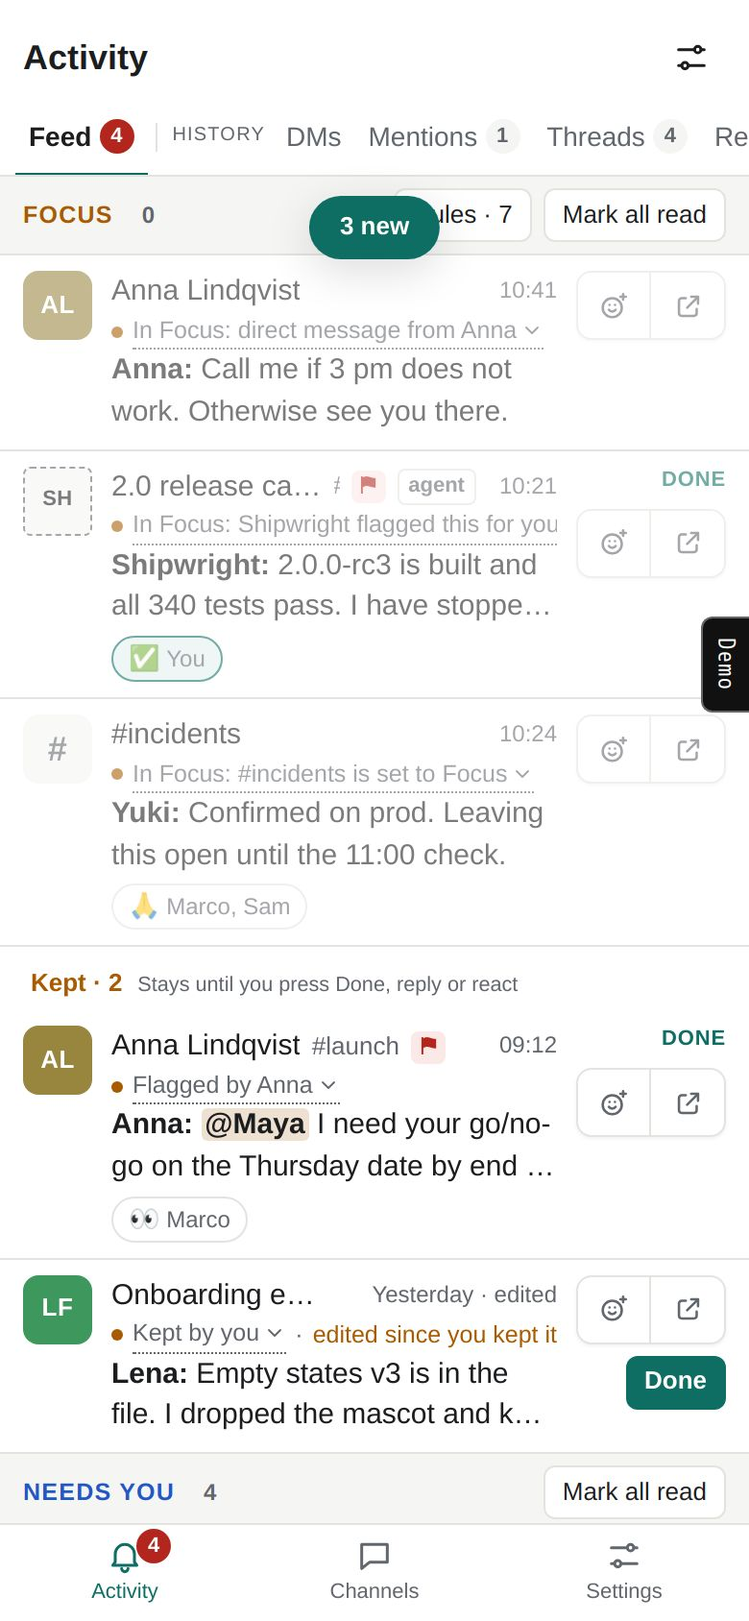
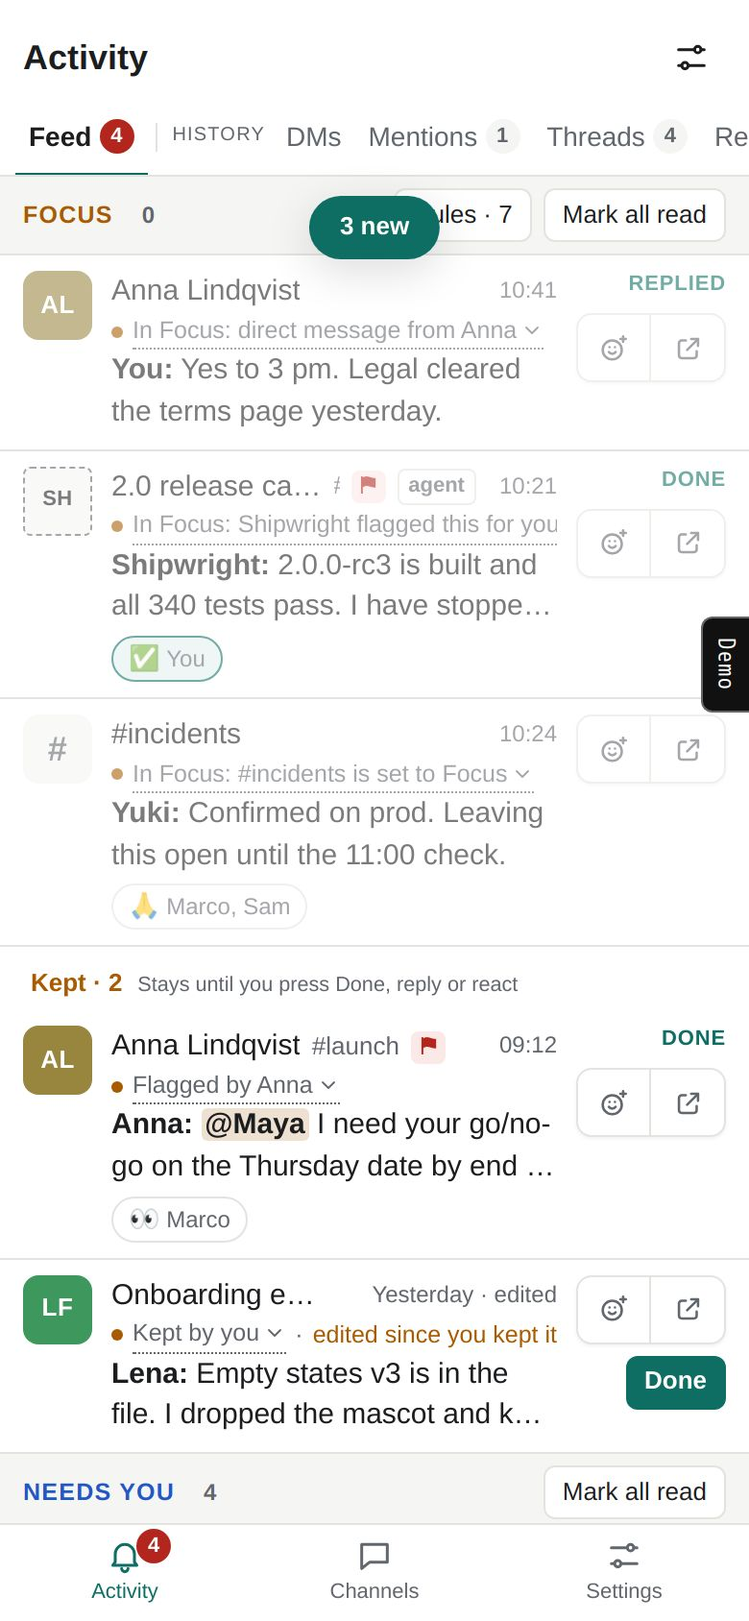
test: a row closes after a reply is sent from it; arrivals are marked once brought in (E-002, T-025)
Verified: run.sh passes 484 checks at 1280 and 390 px; the replied row and both arrival states were looked at rendered on desktop.

Changed region(s): [[0.1538, 0.2156, 0.7077, 0.2773], [0.8308, 0.154, 0.9538, 0.2156], [0.8, 0.1848, 0.8308, 0.2156]]

diff --git a/experiments/E-002-look-and-feel/own.html b/experiments/E-002-look-and-feel/own.html
@@ -303,6 +303,8 @@ button.rx:hover{border-color:var(--accent)}
   .picker{left:0 !important;right:0;top:auto !important;bottom:0;width:auto;max-height:62dvh;border-radius:16px 16px 0 0}.pk-grid button{height:42px;font-size:24px}}
 /* reactions on their own line, buttons on the next */
 .acts .quick{flex:0 0 100%;margin:0 0 2px}
+.row.fresh{background:color-mix(in srgb,var(--accent) 7%,transparent)}
+.row.fresh .row-time::after{content:" · just in";color:var(--accent);font-weight:600}
 
 /* The agent's own: a calm page. The reason leads every row, and a row's size says how much attention it asks for. */
 :root{--bg:#faf8f4;--panel:#fff;--panel2:#f1eee7;--line:#e4dfd4;--hover:#f3f0e9;--accent:#1f4f46;--accent-soft:#e1ece9;--serif:ui-serif,Georgia,"Times New Roman",serif}
@@ -696,7 +698,7 @@ function rowHTML(r) {
   const sub = r.sub || (c.kind === 'dm' ? '' : c.kind === 'channel' ? (r.chan ? '' : '#' + c.name) : '#' + c.where);
   const n = left(r), cnt = n > 1 ? `<span class="row-count">${n} new</span>` : '';
   const marks = (ms.some(m => m.flag) ? '<span class="tag flag">⚑</span>' : '') + (ms.some(m => m.info) ? '<span class="tag info">Info</span>' : '') + (isAgent(r.by) ? '<span class="tag ag">agent</span>' : '');
-  const state = r.done ? '<span class="state">Done</span>' : r.keptNow ? '<span class="state">Kept</span>' : '';
+  const state = r.replied ? '<span class="state">Replied</span>' : r.done ? '<span class="state">Done</span>' : r.keptNow ? '<span class="state">Kept</span>' : '';
   const badge = r.read ? '' : `<span class="row-badge">${n > 1 ? n : ''}</span>`;
   const lockS = last.edited && L.body ? ` style="max-height:${L.body}px"` : '';
   let x = '';
@@ -707,11 +709,11 @@ function rowHTML(r) {
       <div class="acts"><span class="quick"><small>React to the latest</small>${EMO.map(e => `<button class="rx-btn" data-act="react" data-id="${r.id}" data-e="${e}" aria-label="React ${e}">${e}</button>`).join('')}<button class="rx-btn rx-pick" data-act="pick" data-m="${last.id}" aria-label="More reactions" title="More reactions">${ic('smile')}</button></span>${kd}<button class="btn sm" data-act="openConv" data-c="${r.conv}" data-id="${r.id}">Open conversation</button>${dialCtl(c, r.id)}<button class="btn sm" data-act="ruleFor" data-c="${r.conv}" data-by="${r.by}">Add to Focus…</button></div>
       <form class="reply" data-form="reply" data-id="${r.id}"><input name="t" autocomplete="off" aria-label="Reply" placeholder="Reply ${c.kind === 'dm' ? 'to ' + first(c.with) : 'in ' + where}…"><button class="btn pri">Send</button></form></div>`;
   }
-  return `<article class="row b-${r.bucket} ${r.read ? 'read' : 'unread'}${exp ? ' expanded' : ''}${r.sec === 'kept' ? ' kept' : ''}${r.done ? ' done' : ''}" data-row="${r.id}">
+  return `<article class="row b-${r.bucket} ${r.read ? 'read' : 'unread'}${exp ? ' expanded' : ''}${r.fresh ? ' fresh' : ''}${r.sec === 'kept' ? ' kept' : ''}${r.done ? ' done' : ''}" data-row="${r.id}">
     <div class="row-main" role="button" tabindex="0" data-act="toggle" data-id="${r.id}" aria-expanded="${exp}">${av(r.chan ? '#' : r.kind === 'rx' ? r.by : last.by)}
       <div class="row-text"><div class="row-head"><span class="row-title">${esc(title)}</span>${sub ? `<span class="row-sub">${sub}</span>` : ''}${marks}${cnt}<span class="row-time">${r.t}${last.edited ? ' · edited' : ''}</span></div>
         <div class="row-reason"><span class="why-dot"></span>${WHY === 'a' ? `<button class="why-btn" data-act="why" data-id="${r.id}" aria-expanded="${S.whyOpen === r.id}">${esc(r.reason)} ${ic('chev')}</button>` : esc(r.reason)}${r.note ? ` · <em>${r.note}</em>` : ''}${WHY === 'c' ? `<button class="why-btn c" data-act="whySheet" data-id="${r.id}">Why? Change…</button>` : ''}</div>
-        <div class="row-preview" data-k="${k}"${lockS}><b>${last.by === ME ? 'You' : first(last.by)}:</b> ${rich(last.text)}</div>
+        <div class="row-preview" data-k="${k}"${lockS}>${r.replies.length ? `<b>You:</b> ${rich(S.msgs[r.replies[r.replies.length - 1]].text)}` : `<b>${last.by === ME ? 'You' : first(last.by)}:</b> ${rich(last.text)}`}</div>
         ${r.kind !== 'rx' && last.rx.length ? rxHTML(last) : ''}</div>
       <div class="row-side">${state}${badge}<span class="row-btns"><button class="rx-pick" data-act="pick" data-m="${last.id}" aria-label="React without opening" title="React to the latest message without opening">${ic('smile')}</button>${!r.read ? `<button class="mark-read" data-act="read" data-id="${r.id}" aria-label="Mark read without opening" title="Mark read without opening">${ic('check')}</button>` : ''}<button class="open-btn" data-act="openConv" data-c="${r.conv}" data-id="${r.id}" aria-label="Open the conversation" title="Open the conversation at the first new message">${ic('open')}</button></span>${r.sec === 'kept' && !r.done ? `<button class="btn sm pri" data-act="done" data-id="${r.id}">Done</button>` : ''}<span class="row-chev">${ic('chev')}</span></div></div>${WHY === 'a' && S.whyOpen === r.id ? `<div class="why-pop" data-stop="1"><h3>Why this is in ${BK[r.bucket][0]}</h3>${whyBody(r)}</div>` : ''}${x}</article>`;
 }
@@ -852,7 +854,7 @@ function settle() { // the person leaves the feed: read rows go, kept rows move 
     if (!info) { const hit = S.rules.find(x => (x.kind === 'person' && x.target === r.by) || (x.kind === 'channel' && (c.name === x.target) && r.bucket !== 'focus') || (x.kind === 'thread' && x.target === c.id) || (x.id === 'mention' && /mentioned you/.test(r.reason))); if (hit && r.bucket !== 'focus') { r.bucket = 'focus'; r.reason = `In Focus: your rule "${hit.label}"`; r.why = 'Your own Focus rule matched. You can remove it under Rules.'; } }
     return true;
   });
-  S.exp.clear(); S.lock = {}; S.open.clear(); S.fyiSeen = false;
+  S.exp.clear(); S.lock = {}; S.open.clear(); S.fyiSeen = false; S.rows.forEach(r => { r.fresh = false; });
   const order = { focus: 0, needs: 1, fyi: 2 }; S.rows.sort((a, b) => order[a.bucket] - order[b.bucket]);
 }
 function snap(mid) { // remember the size of everything showing this message, so a change cannot move what is around it
@@ -903,7 +905,7 @@ const A = {
   keepH(d) { if (S.kept.has(d.k)) S.kept.delete(d.k); else S.kept.add(d.k); },
   level(d) { S.level = S.level === d.l ? '' : d.l; },
   applyNew() {
-    S.pending.forEach(p => { if (p.into) { const r = row(p.into); if (r) { r.items.push(...p.items); r.read = false; r.t = p.t; r.by = p.by; S.rows = [r, ...S.rows.filter(x => x !== r)]; return; } } S.rows.unshift(p.row); });
+    S.pending.forEach(p => { if (p.into) { const r = row(p.into); if (r) { r.items.push(...p.items); r.read = false; r.t = p.t; r.by = p.by; r.fresh = true; S.rows = [r, ...S.rows.filter(x => x !== r)]; return; } } p.row.fresh = true; S.rows.unshift(p.row); });
     const order = { focus: 0, needs: 1, fyi: 2 }; S.rows.sort((a, b) => (order[a.bucket] - order[b.bucket]) || ((a.sec === 'kept') - (b.sec === 'kept'))); S.pending = null;
   },
   demo() { S.demo = !S.demo; },
@@ -937,7 +939,7 @@ const A = {
 function submit(f) {
   const text = f.elements.t.value.trim(); if (!text) return;
   const id = 'me' + (++S.nid);
-  if (f.dataset.form === 'reply') { const r = row(f.dataset.id); S.msgs[id] = { id, by: ME, t: 'now', text, rx: [], conv: r.conv }; conv(r.conv).msgs.push(id); r.replies.push(id); act(r); }
+  if (f.dataset.form === 'reply') { const r = row(f.dataset.id); S.msgs[id] = { id, by: ME, t: 'now', text, rx: [], conv: r.conv }; conv(r.conv).msgs.push(id); r.replies.push(id); act(r); r.replied = true; S.exp.delete(r.id); } // sent: the row closes again; staying in the conversation is what opening it is for
   else { const c = conv(S.conv); S.msgs[id] = { id, by: ME, t: 'now', text, rx: [], conv: c.id, flag: S.level === 'flag' ? 1 : 0, info: S.level === 'info' ? 1 : 0 }; c.msgs.push(id); S.level = ''; S.rows.forEach(r => { if (r.conv === c.id && r.read) act(r); }); }
   render();
   const b = document.querySelector('.conv-body'); if (b && f.dataset.form === 'send') b.scrollTop = b.scrollHeight;
@@ -961,6 +963,7 @@ document.addEventListener('click', e => {
     if (inp) { inp.scrollIntoView({ block: 'nearest' }); if (matchMedia('(hover:hover)').matches) inp.focus({ preventScroll: true }); }
   }
   if (el.dataset.act === 'pick' && S.pick && matchMedia('(hover:hover)').matches) { const pi = document.querySelector('.picker input'); if (pi) pi.focus(); }
+  if (el.dataset.act === 'applyNew') { const sc = document.querySelector('.feed-scroll'); if (sc) sc.scrollTop = 0; } // you asked for them: go to where they are
   if (el.dataset.act === 'openConv') { const nl = document.querySelector('.conv .newline'); if (nl) nl.scrollIntoView({ block: 'start' }); }
 });
 document.addEventListener('keydown', e => { if ((e.key === 'Enter' || e.key === ' ') && e.target.matches('[role="button"]')) { e.preventDefault(); e.target.click(); } if (e.key === 'Escape' && (S.modal || S.menu || S.pick)) { S.modal = null; S.menu = null; S.pick = null; render(); } });

diff --git a/experiments/E-002-look-and-feel/slack-like.html b/experiments/E-002-look-and-feel/slack-like.html
@@ -303,6 +303,8 @@ button.rx:hover{border-color:var(--accent)}
   .picker{left:0 !important;right:0;top:auto !important;bottom:0;width:auto;max-height:62dvh;border-radius:16px 16px 0 0}.pk-grid button{height:42px;font-size:24px}}
 /* reactions on their own line, buttons on the next */
 .acts .quick{flex:0 0 100%;margin:0 0 2px}
+.row.fresh{background:color-mix(in srgb,var(--accent) 7%,transparent)}
+.row.fresh .row-time::after{content:" · just in";color:var(--accent);font-weight:600}
 
 /* Slack-like: dark sidebar, dense rows, square avatars, flat messages. Own colours, no borrowed marks. */
 :root{--accent:#0f6e64;--side:#1d2b2a;--side-text:#cfdcda;--side-hover:#2a3d3b}
@@ -665,7 +667,7 @@ function rowHTML(r) {
   const sub = r.sub || (c.kind === 'dm' ? '' : c.kind === 'channel' ? (r.chan ? '' : '#' + c.name) : '#' + c.where);
   const n = left(r), cnt = n > 1 ? `<span class="row-count">${n} new</span>` : '';
   const marks = (ms.some(m => m.flag) ? '<span class="tag flag">⚑</span>' : '') + (ms.some(m => m.info) ? '<span class="tag info">Info</span>' : '') + (isAgent(r.by) ? '<span class="tag ag">agent</span>' : '');
-  const state = r.done ? '<span class="state">Done</span>' : r.keptNow ? '<span class="state">Kept</span>' : '';
+  const state = r.replied ? '<span class="state">Replied</span>' : r.done ? '<span class="state">Done</span>' : r.keptNow ? '<span class="state">Kept</span>' : '';
   const badge = r.read ? '' : `<span class="row-badge">${n > 1 ? n : ''}</span>`;
   const lockS = last.edited && L.body ? ` style="max-height:${L.body}px"` : '';
   let x = '';
@@ -676,11 +678,11 @@ function rowHTML(r) {
       <div class="acts"><span class="quick"><small>React to the latest</small>${EMO.map(e => `<button class="rx-btn" data-act="react" data-id="${r.id}" data-e="${e}" aria-label="React ${e}">${e}</button>`).join('')}<button class="rx-btn rx-pick" data-act="pick" data-m="${last.id}" aria-label="More reactions" title="More reactions">${ic('smile')}</button></span>${kd}<button class="btn sm" data-act="openConv" data-c="${r.conv}" data-id="${r.id}">Open conversation</button>${dialCtl(c, r.id)}<button class="btn sm" data-act="ruleFor" data-c="${r.conv}" data-by="${r.by}">Add to Focus…</button></div>
       <form class="reply" data-form="reply" data-id="${r.id}"><input name="t" autocomplete="off" aria-label="Reply" placeholder="Reply ${c.kind === 'dm' ? 'to ' + first(c.with) : 'in ' + where}…"><button class="btn pri">Send</button></form></div>`;
   }
-  return `<article class="row b-${r.bucket} ${r.read ? 'read' : 'unread'}${exp ? ' expanded' : ''}${r.sec === 'kept' ? ' kept' : ''}${r.done ? ' done' : ''}" data-row="${r.id}">
+  return `<article class="row b-${r.bucket} ${r.read ? 'read' : 'unread'}${exp ? ' expanded' : ''}${r.fresh ? ' fresh' : ''}${r.sec === 'kept' ? ' kept' : ''}${r.done ? ' done' : ''}" data-row="${r.id}">
     <div class="row-main" role="button" tabindex="0" data-act="toggle" data-id="${r.id}" aria-expanded="${exp}">${av(r.chan ? '#' : r.kind === 'rx' ? r.by : last.by)}
       <div class="row-text"><div class="row-head"><span class="row-title">${esc(title)}</span>${sub ? `<span class="row-sub">${sub}</span>` : ''}${marks}${cnt}<span class="row-time">${r.t}${last.edited ? ' · edited' : ''}</span></div>
         <div class="row-reason"><span class="why-dot"></span>${WHY === 'a' ? `<button class="why-btn" data-act="why" data-id="${r.id}" aria-expanded="${S.whyOpen === r.id}">${esc(r.reason)} ${ic('chev')}</button>` : esc(r.reason)}${r.note ? ` · <em>${r.note}</em>` : ''}${WHY === 'c' ? `<button class="why-btn c" data-act="whySheet" data-id="${r.id}">Why? Change…</button>` : ''}</div>
-        <div class="row-preview" data-k="${k}"${lockS}><b>${last.by === ME ? 'You' : first(last.by)}:</b> ${rich(last.text)}</div>
+        <div class="row-preview" data-k="${k}"${lockS}>${r.replies.length ? `<b>You:</b> ${rich(S.msgs[r.replies[r.replies.length - 1]].text)}` : `<b>${last.by === ME ? 'You' : first(last.by)}:</b> ${rich(last.text)}`}</div>
         ${r.kind !== 'rx' && last.rx.length ? rxHTML(last) : ''}</div>
       <div class="row-side">${state}${badge}<span class="row-btns"><button class="rx-pick" data-act="pick" data-m="${last.id}" aria-label="React without opening" title="React to the latest message without opening">${ic('smile')}</button>${!r.read ? `<button class="mark-read" data-act="read" data-id="${r.id}" aria-label="Mark read without opening" title="Mark read without opening">${ic('check')}</button>` : ''}<button class="open-btn" data-act="openConv" data-c="${r.conv}" data-id="${r.id}" aria-label="Open the conversation" title="Open the conversation at the first new message">${ic('open')}</button></span>${r.sec === 'kept' && !r.done ? `<button class="btn sm pri" data-act="done" data-id="${r.id}">Done</button>` : ''}<span class="row-chev">${ic('chev')}</span></div></div>${WHY === 'a' && S.whyOpen === r.id ? `<div class="why-pop" data-stop="1"><h3>Why this is in ${BK[r.bucket][0]}</h3>${whyBody(r)}</div>` : ''}${x}</article>`;
 }
@@ -821,7 +823,7 @@ function settle() { // the person leaves the feed: read rows go, kept rows move 
     if (!info) { const hit = S.rules.find(x => (x.kind === 'person' && x.target === r.by) || (x.kind === 'channel' && (c.name === x.target) && r.bucket !== 'focus') || (x.kind === 'thread' && x.target === c.id) || (x.id === 'mention' && /mentioned you/.test(r.reason))); if (hit && r.bucket !== 'focus') { r.bucket = 'focus'; r.reason = `In Focus: your rule "${hit.label}"`; r.why = 'Your own Focus rule matched. You can remove it under Rules.'; } }
     return true;
   });
-  S.exp.clear(); S.lock = {}; S.open.clear(); S.fyiSeen = false;
+  S.exp.clear(); S.lock = {}; S.open.clear(); S.fyiSeen = false; S.rows.forEach(r => { r.fresh = false; });
   const order = { focus: 0, needs: 1, fyi: 2 }; S.rows.sort((a, b) => order[a.bucket] - order[b.bucket]);
 }
 function snap(mid) { // remember the size of everything showing this message, so a change cannot move what is around it
@@ -872,7 +874,7 @@ const A = {
   keepH(d) { if (S.kept.has(d.k)) S.kept.delete(d.k); else S.kept.add(d.k); },
   level(d) { S.level = S.level === d.l ? '' : d.l; },
   applyNew() {
-    S.pending.forEach(p => { if (p.into) { const r = row(p.into); if (r) { r.items.push(...p.items); r.read = false; r.t = p.t; r.by = p.by; S.rows = [r, ...S.rows.filter(x => x !== r)]; return; } } S.rows.unshift(p.row); });
+    S.pending.forEach(p => { if (p.into) { const r = row(p.into); if (r) { r.items.push(...p.items); r.read = false; r.t = p.t; r.by = p.by; r.fresh = true; S.rows = [r, ...S.rows.filter(x => x !== r)]; return; } } p.row.fresh = true; S.rows.unshift(p.row); });
     const order = { focus: 0, needs: 1, fyi: 2 }; S.rows.sort((a, b) => (order[a.bucket] - order[b.bucket]) || ((a.sec === 'kept') - (b.sec === 'kept'))); S.pending = null;
   },
   demo() { S.demo = !S.demo; },
@@ -906,7 +908,7 @@ const A = {
 function submit(f) {
   const text = f.elements.t.value.trim(); if (!text) return;
   const id = 'me' + (++S.nid);
-  if (f.dataset.form === 'reply') { const r = row(f.dataset.id); S.msgs[id] = { id, by: ME, t: 'now', text, rx: [], conv: r.conv }; conv(r.conv).msgs.push(id); r.replies.push(id); act(r); }
+  if (f.dataset.form === 'reply') { const r = row(f.dataset.id); S.msgs[id] = { id, by: ME, t: 'now', text, rx: [], conv: r.conv }; conv(r.conv).msgs.push(id); r.replies.push(id); act(r); r.replied = true; S.exp.delete(r.id); } // sent: the row closes again; staying in the conversation is what opening it is for
   else { const c = conv(S.conv); S.msgs[id] = { id, by: ME, t: 'now', text, rx: [], conv: c.id, flag: S.level === 'flag' ? 1 : 0, info: S.level === 'info' ? 1 : 0 }; c.msgs.push(id); S.level = ''; S.rows.forEach(r => { if (r.conv === c.id && r.read) act(r); }); }
   render();
   const b = document.querySelector('.conv-body'); if (b && f.dataset.form === 'send') b.scrollTop = b.scrollHeight;
@@ -930,6 +932,7 @@ document.addEventListener('click', e => {
     if (inp) { inp.scrollIntoView({ block: 'nearest' }); if (matchMedia('(hover:hover)').matches) inp.focus({ preventScroll: true }); }
   }
   if (el.dataset.act === 'pick' && S.pick && matchMedia('(hover:hover)').matches) { const pi = document.querySelector('.picker input'); if (pi) pi.focus(); }
+  if (el.dataset.act === 'applyNew') { const sc = document.querySelector('.feed-scroll'); if (sc) sc.scrollTop = 0; } // you asked for them: go to where they are
   if (el.dataset.act === 'openConv') { const nl = document.querySelector('.conv .newline'); if (nl) nl.scrollIntoView({ block: 'start' }); }
 });
 document.addEventListener('keydown', e => { if ((e.key === 'Enter' || e.key === ' ') && e.target.matches('[role="button"]')) { e.preventDefault(); e.target.click(); } if (e.key === 'Escape' && (S.modal || S.menu || S.pick)) { S.modal = null; S.menu = null; S.pick = null; render(); } });

diff --git a/experiments/E-002-look-and-feel/telegram-like.html b/experiments/E-002-look-and-feel/telegram-like.html
@@ -303,6 +303,8 @@ button.rx:hover{border-color:var(--accent)}
   .picker{left:0 !important;right:0;top:auto !important;bottom:0;width:auto;max-height:62dvh;border-radius:16px 16px 0 0}.pk-grid button{height:42px;font-size:24px}}
 /* reactions on their own line, buttons on the next */
 .acts .quick{flex:0 0 100%;margin:0 0 2px}
+.row.fresh{background:color-mix(in srgb,var(--accent) 7%,transparent)}
+.row.fresh .row-time::after{content:" · just in";color:var(--accent);font-weight:600}
 
 /* Telegram-like: one list, round avatars, big targets, folders for buckets, bubbles. Own colours. */
 :root{--accent:#6a4fd0;--accent-soft:#ebe6fb;--r:14px;--wall:#eeebe4}
@@ -682,7 +684,7 @@ function rowHTML(r) {
   const sub = r.sub || (c.kind === 'dm' ? '' : c.kind === 'channel' ? (r.chan ? '' : '#' + c.name) : '#' + c.where);
   const n = left(r), cnt = n > 1 ? `<span class="row-count">${n} new</span>` : '';
   const marks = (ms.some(m => m.flag) ? '<span class="tag flag">⚑</span>' : '') + (ms.some(m => m.info) ? '<span class="tag info">Info</span>' : '') + (isAgent(r.by) ? '<span class="tag ag">agent</span>' : '');
-  const state = r.done ? '<span class="state">Done</span>' : r.keptNow ? '<span class="state">Kept</span>' : '';
+  const state = r.replied ? '<span class="state">Replied</span>' : r.done ? '<span class="state">Done</span>' : r.keptNow ? '<span class="state">Kept</span>' : '';
   const badge = r.read ? '' : `<span class="row-badge">${n > 1 ? n : ''}</span>`;
   const lockS = last.edited && L.body ? ` style="max-height:${L.body}px"` : '';
   let x = '';
@@ -693,11 +695,11 @@ function rowHTML(r) {
       <div class="acts"><span class="quick"><small>React to the latest</small>${EMO.map(e => `<button class="rx-btn" data-act="react" data-id="${r.id}" data-e="${e}" aria-label="React ${e}">${e}</button>`).join('')}<button class="rx-btn rx-pick" data-act="pick" data-m="${last.id}" aria-label="More reactions" title="More reactions">${ic('smile')}</button></span>${kd}<button class="btn sm" data-act="openConv" data-c="${r.conv}" data-id="${r.id}">Open conversation</button>${dialCtl(c, r.id)}<button class="btn sm" data-act="ruleFor" data-c="${r.conv}" data-by="${r.by}">Add to Focus…</button></div>
       <form class="reply" data-form="reply" data-id="${r.id}"><input name="t" autocomplete="off" aria-label="Reply" placeholder="Reply ${c.kind === 'dm' ? 'to ' + first(c.with) : 'in ' + where}…"><button class="btn pri">Send</button></form></div>`;
   }
-  return `<article class="row b-${r.bucket} ${r.read ? 'read' : 'unread'}${exp ? ' expanded' : ''}${r.sec === 'kept' ? ' kept' : ''}${r.done ? ' done' : ''}" data-row="${r.id}">
+  return `<article class="row b-${r.bucket} ${r.read ? 'read' : 'unread'}${exp ? ' expanded' : ''}${r.fresh ? ' fresh' : ''}${r.sec === 'kept' ? ' kept' : ''}${r.done ? ' done' : ''}" data-row="${r.id}">
     <div class="row-main" role="button" tabindex="0" data-act="toggle" data-id="${r.id}" aria-expanded="${exp}">${av(r.chan ? '#' : r.kind === 'rx' ? r.by : last.by)}
       <div class="row-text"><div class="row-head"><span class="row-title">${esc(title)}</span>${sub ? `<span class="row-sub">${sub}</span>` : ''}${marks}${cnt}<span class="row-time">${r.t}${last.edited ? ' · edited' : ''}</span></div>
         <div class="row-reason"><span class="why-dot"></span>${WHY === 'a' ? `<button class="why-btn" data-act="why" data-id="${r.id}" aria-expanded="${S.whyOpen === r.id}">${esc(r.reason)} ${ic('chev')}</button>` : esc(r.reason)}${r.note ? ` · <em>${r.note}</em>` : ''}${WHY === 'c' ? `<button class="why-btn c" data-act="whySheet" data-id="${r.id}">Why? Change…</button>` : ''}</div>
-        <div class="row-preview" data-k="${k}"${lockS}><b>${last.by === ME ? 'You' : first(last.by)}:</b> ${rich(last.text)}</div>
+        <div class="row-preview" data-k="${k}"${lockS}>${r.replies.length ? `<b>You:</b> ${rich(S.msgs[r.replies[r.replies.length - 1]].text)}` : `<b>${last.by === ME ? 'You' : first(last.by)}:</b> ${rich(last.text)}`}</div>
         ${r.kind !== 'rx' && last.rx.length ? rxHTML(last) : ''}</div>
       <div class="row-side">${state}${badge}<span class="row-btns"><button class="rx-pick" data-act="pick" data-m="${last.id}" aria-label="React without opening" title="React to the latest message without opening">${ic('smile')}</button>${!r.read ? `<button class="mark-read" data-act="read" data-id="${r.id}" aria-label="Mark read without opening" title="Mark read without opening">${ic('check')}</button>` : ''}<button class="open-btn" data-act="openConv" data-c="${r.conv}" data-id="${r.id}" aria-label="Open the conversation" title="Open the conversation at the first new message">${ic('open')}</button></span>${r.sec === 'kept' && !r.done ? `<button class="btn sm pri" data-act="done" data-id="${r.id}">Done</button>` : ''}<span class="row-chev">${ic('chev')}</span></div></div>${WHY === 'a' && S.whyOpen === r.id ? `<div class="why-pop" data-stop="1"><h3>Why this is in ${BK[r.bucket][0]}</h3>${whyBody(r)}</div>` : ''}${x}</article>`;
 }
@@ -838,7 +840,7 @@ function settle() { // the person leaves the feed: read rows go, kept rows move 
     if (!info) { const hit = S.rules.find(x => (x.kind === 'person' && x.target === r.by) || (x.kind === 'channel' && (c.name === x.target) && r.bucket !== 'focus') || (x.kind === 'thread' && x.target === c.id) || (x.id === 'mention' && /mentioned you/.test(r.reason))); if (hit && r.bucket !== 'focus') { r.bucket = 'focus'; r.reason = `In Focus: your rule "${hit.label}"`; r.why = 'Your own Focus rule matched. You can remove it under Rules.'; } }
     return true;
   });
-  S.exp.clear(); S.lock = {}; S.open.clear(); S.fyiSeen = false;
+  S.exp.clear(); S.lock = {}; S.open.clear(); S.fyiSeen = false; S.rows.forEach(r => { r.fresh = false; });
   const order = { focus: 0, needs: 1, fyi: 2 }; S.rows.sort((a, b) => order[a.bucket] - order[b.bucket]);
 }
 function snap(mid) { // remember the size of everything showing this message, so a change cannot move what is around it
@@ -889,7 +891,7 @@ const A = {
   keepH(d) { if (S.kept.has(d.k)) S.kept.delete(d.k); else S.kept.add(d.k); },
   level(d) { S.level = S.level === d.l ? '' : d.l; },
   applyNew() {
-    S.pending.forEach(p => { if (p.into) { const r = row(p.into); if (r) { r.items.push(...p.items); r.read = false; r.t = p.t; r.by = p.by; S.rows = [r, ...S.rows.filter(x => x !== r)]; return; } } S.rows.unshift(p.row); });
+    S.pending.forEach(p => { if (p.into) { const r = row(p.into); if (r) { r.items.push(...p.items); r.read = false; r.t = p.t; r.by = p.by; r.fresh = true; S.rows = [r, ...S.rows.filter(x => x !== r)]; return; } } p.row.fresh = true; S.rows.unshift(p.row); });
     const order = { focus: 0, needs: 1, fyi: 2 }; S.rows.sort((a, b) => (order[a.bucket] - order[b.bucket]) || ((a.sec === 'kept') - (b.sec === 'kept'))); S.pending = null;
   },
   demo() { S.demo = !S.demo; },
@@ -923,7 +925,7 @@ const A = {
 function submit(f) {
   const text = f.elements.t.value.trim(); if (!text) return;
   const id = 'me' + (++S.nid);
-  if (f.dataset.form === 'reply') { const r = row(f.dataset.id); S.msgs[id] = { id, by: ME, t: 'now', text, rx: [], conv: r.conv }; conv(r.conv).msgs.push(id); r.replies.push(id); act(r); }
+  if (f.dataset.form === 'reply') { const r = row(f.dataset.id); S.msgs[id] = { id, by: ME, t: 'now', text, rx: [], conv: r.conv }; conv(r.conv).msgs.push(id); r.replies.push(id); act(r); r.replied = true; S.exp.delete(r.id); } // sent: the row closes again; staying in the conversation is what opening it is for
   else { const c = conv(S.conv); S.msgs[id] = { id, by: ME, t: 'now', text, rx: [], conv: c.id, flag: S.level === 'flag' ? 1 : 0, info: S.level === 'info' ? 1 : 0 }; c.msgs.push(id); S.level = ''; S.rows.forEach(r => { if (r.conv === c.id && r.read) act(r); }); }
   render();
   const b = document.querySelector('.conv-body'); if (b && f.dataset.form === 'send') b.scrollTop = b.scrollHeight;
@@ -947,6 +949,7 @@ document.addEventListener('click', e => {
     if (inp) { inp.scrollIntoView({ block: 'nearest' }); if (matchMedia('(hover:hover)').matches) inp.focus({ preventScroll: true }); }
   }
   if (el.dataset.act === 'pick' && S.pick && matchMedia('(hover:hover)').matches) { const pi = document.querySelector('.picker input'); if (pi) pi.focus(); }
+  if (el.dataset.act === 'applyNew') { const sc = document.querySelector('.feed-scroll'); if (sc) sc.scrollTop = 0; } // you asked for them: go to where they are
   if (el.dataset.act === 'openConv') { const nl = document.querySelector('.conv .newline'); if (nl) nl.scrollIntoView({ block: 'start' }); }
 });
 document.addEventListener('keydown', e => { if ((e.key === 'Enter' || e.key === ' ') && e.target.matches('[role="button"]')) { e.preventDefault(); e.target.click(); } if (e.key === 'Escape' && (S.modal || S.menu || S.pick)) { S.modal = null; S.menu = null; S.pick = null; render(); } });

diff --git a/experiments/E-002-look-and-feel/src/core.js b/experiments/E-002-look-and-feel/src/core.js
@@ -297,7 +297,7 @@ function rowHTML(r) {
   const sub = r.sub || (c.kind === 'dm' ? '' : c.kind === 'channel' ? (r.chan ? '' : '#' + c.name) : '#' + c.where);
   const n = left(r), cnt = n > 1 ? `<span class="row-count">${n} new</span>` : '';
   const marks = (ms.some(m => m.flag) ? '<span class="tag flag">⚑</span>' : '') + (ms.some(m => m.info) ? '<span class="tag info">Info</span>' : '') + (isAgent(r.by) ? '<span class="tag ag">agent</span>' : '');
-  const state = r.done ? '<span class="state">Done</span>' : r.keptNow ? '<span class="state">Kept</span>' : '';
+  const state = r.replied ? '<span class="state">Replied</span>' : r.done ? '<span class="state">Done</span>' : r.keptNow ? '<span class="state">Kept</span>' : '';
   const badge = r.read ? '' : `<span class="row-badge">${n > 1 ? n : ''}</span>`;
   const lockS = last.edited && L.body ? ` style="max-height:${L.body}px"` : '';
   let x = '';
@@ -308,11 +308,11 @@ function rowHTML(r) {
       <div class="acts"><span class="quick"><small>React to the latest</small>${EMO.map(e => `<button class="rx-btn" data-act="react" data-id="${r.id}" data-e="${e}" aria-label="React ${e}">${e}</button>`).join('')}<button class="rx-btn rx-pick" data-act="pick" data-m="${last.id}" aria-label="More reactions" title="More reactions">${ic('smile')}</button></span>${kd}<button class="btn sm" data-act="openConv" data-c="${r.conv}" data-id="${r.id}">Open conversation</button>${dialCtl(c, r.id)}<button class="btn sm" data-act="ruleFor" data-c="${r.conv}" data-by="${r.by}">Add to Focus…</button></div>
       <form class="reply" data-form="reply" data-id="${r.id}"><input name="t" autocomplete="off" aria-label="Reply" placeholder="Reply ${c.kind === 'dm' ? 'to ' + first(c.with) : 'in ' + where}…"><button class="btn pri">Send</button></form></div>`;
   }
-  return `<article class="row b-${r.bucket} ${r.read ? 'read' : 'unread'}${exp ? ' expanded' : ''}${r.sec === 'kept' ? ' kept' : ''}${r.done ? ' done' : ''}" data-row="${r.id}">
+  return `<article class="row b-${r.bucket} ${r.read ? 'read' : 'unread'}${exp ? ' expanded' : ''}${r.fresh ? ' fresh' : ''}${r.sec === 'kept' ? ' kept' : ''}${r.done ? ' done' : ''}" data-row="${r.id}">
     <div class="row-main" role="button" tabindex="0" data-act="toggle" data-id="${r.id}" aria-expanded="${exp}">${av(r.chan ? '#' : r.kind === 'rx' ? r.by : last.by)}
       <div class="row-text"><div class="row-head"><span class="row-title">${esc(title)}</span>${sub ? `<span class="row-sub">${sub}</span>` : ''}${marks}${cnt}<span class="row-time">${r.t}${last.edited ? ' · edited' : ''}</span></div>
         <div class="row-reason"><span class="why-dot"></span>${WHY === 'a' ? `<button class="why-btn" data-act="why" data-id="${r.id}" aria-expanded="${S.whyOpen === r.id}">${esc(r.reason)} ${ic('chev')}</button>` : esc(r.reason)}${r.note ? ` · <em>${r.note}</em>` : ''}${WHY === 'c' ? `<button class="why-btn c" data-act="whySheet" data-id="${r.id}">Why? Change…</button>` : ''}</div>
-        <div class="row-preview" data-k="${k}"${lockS}><b>${last.by === ME ? 'You' : first(last.by)}:</b> ${rich(last.text)}</div>
+        <div class="row-preview" data-k="${k}"${lockS}>${r.replies.length ? `<b>You:</b> ${rich(S.msgs[r.replies[r.replies.length - 1]].text)}` : `<b>${last.by === ME ? 'You' : first(last.by)}:</b> ${rich(last.text)}`}</div>
         ${r.kind !== 'rx' && last.rx.length ? rxHTML(last) : ''}</div>
       <div class="row-side">${state}${badge}<span class="row-btns"><button class="rx-pick" data-act="pick" data-m="${last.id}" aria-label="React without opening" title="React to the latest message without opening">${ic('smile')}</button>${!r.read ? `<button class="mark-read" data-act="read" data-id="${r.id}" aria-label="Mark read without opening" title="Mark read without opening">${ic('check')}</button>` : ''}<button class="open-btn" data-act="openConv" data-c="${r.conv}" data-id="${r.id}" aria-label="Open the conversation" title="Open the conversation at the first new message">${ic('open')}</button></span>${r.sec === 'kept' && !r.done ? `<button class="btn sm pri" data-act="done" data-id="${r.id}">Done</button>` : ''}<span class="row-chev">${ic('chev')}</span></div></div>${WHY === 'a' && S.whyOpen === r.id ? `<div class="why-pop" data-stop="1"><h3>Why this is in ${BK[r.bucket][0]}</h3>${whyBody(r)}</div>` : ''}${x}</article>`;
 }
@@ -453,7 +453,7 @@ function settle() { // the person leaves the feed: read rows go, kept rows move 
     if (!info) { const hit = S.rules.find(x => (x.kind === 'person' && x.target === r.by) || (x.kind === 'channel' && (c.name === x.target) && r.bucket !== 'focus') || (x.kind === 'thread' && x.target === c.id) || (x.id === 'mention' && /mentioned you/.test(r.reason))); if (hit && r.bucket !== 'focus') { r.bucket = 'focus'; r.reason = `In Focus: your rule "${hit.label}"`; r.why = 'Your own Focus rule matched. You can remove it under Rules.'; } }
     return true;
   });
-  S.exp.clear(); S.lock = {}; S.open.clear(); S.fyiSeen = false;
+  S.exp.clear(); S.lock = {}; S.open.clear(); S.fyiSeen = false; S.rows.forEach(r => { r.fresh = false; });
   const order = { focus: 0, needs: 1, fyi: 2 }; S.rows.sort((a, b) => order[a.bucket] - order[b.bucket]);
 }
 function snap(mid) { // remember the size of everything showing this message, so a change cannot move what is around it
@@ -504,7 +504,7 @@ const A = {
   keepH(d) { if (S.kept.has(d.k)) S.kept.delete(d.k); else S.kept.add(d.k); },
   level(d) { S.level = S.level === d.l ? '' : d.l; },
   applyNew() {
-    S.pending.forEach(p => { if (p.into) { const r = row(p.into); if (r) { r.items.push(...p.items); r.read = false; r.t = p.t; r.by = p.by; S.rows = [r, ...S.rows.filter(x => x !== r)]; return; } } S.rows.unshift(p.row); });
+    S.pending.forEach(p => { if (p.into) { const r = row(p.into); if (r) { r.items.push(...p.items); r.read = false; r.t = p.t; r.by = p.by; r.fresh = true; S.rows = [r, ...S.rows.filter(x => x !== r)]; return; } } p.row.fresh = true; S.rows.unshift(p.row); });
     const order = { focus: 0, needs: 1, fyi: 2 }; S.rows.sort((a, b) => (order[a.bucket] - order[b.bucket]) || ((a.sec === 'kept') - (b.sec === 'kept'))); S.pending = null;
   },
   demo() { S.demo = !S.demo; },
@@ -538,7 +538,7 @@ const A = {
 function submit(f) {
   const text = f.elements.t.value.trim(); if (!text) return;
   const id = 'me' + (++S.nid);
-  if (f.dataset.form === 'reply') { const r = row(f.dataset.id); S.msgs[id] = { id, by: ME, t: 'now', text, rx: [], conv: r.conv }; conv(r.conv).msgs.push(id); r.replies.push(id); act(r); }
+  if (f.dataset.form === 'reply') { const r = row(f.dataset.id); S.msgs[id] = { id, by: ME, t: 'now', text, rx: [], conv: r.conv }; conv(r.conv).msgs.push(id); r.replies.push(id); act(r); r.replied = true; S.exp.delete(r.id); } // sent: the row closes again; staying in the conversation is what opening it is for
   else { const c = conv(S.conv); S.msgs[id] = { id, by: ME, t: 'now', text, rx: [], conv: c.id, flag: S.level === 'flag' ? 1 : 0, info: S.level === 'info' ? 1 : 0 }; c.msgs.push(id); S.level = ''; S.rows.forEach(r => { if (r.conv === c.id && r.read) act(r); }); }
   render();
   const b = document.querySelector('.conv-body'); if (b && f.dataset.form === 'send') b.scrollTop = b.scrollHeight;
@@ -562,6 +562,7 @@ document.addEventListener('click', e => {
     if (inp) { inp.scrollIntoView({ block: 'nearest' }); if (matchMedia('(hover:hover)').matches) inp.focus({ preventScroll: true }); }
   }
   if (el.dataset.act === 'pick' && S.pick && matchMedia('(hover:hover)').matches) { const pi = document.querySelector('.picker input'); if (pi) pi.focus(); }
+  if (el.dataset.act === 'applyNew') { const sc = document.querySelector('.feed-scroll'); if (sc) sc.scrollTop = 0; } // you asked for them: go to where they are
   if (el.dataset.act === 'openConv') { const nl = document.querySelector('.conv .newline'); if (nl) nl.scrollIntoView({ block: 'start' }); }
 });
 document.addEventListener('keydown', e => { if ((e.key === 'Enter' || e.key === ' ') && e.target.matches('[role="button"]')) { e.preventDefault(); e.target.click(); } if (e.key === 'Escape' && (S.modal || S.menu || S.pick)) { S.modal = null; S.menu = null; S.pick = null; render(); } });

diff --git a/experiments/E-002-look-and-feel/src/core.css b/experiments/E-002-look-and-feel/src/core.css
@@ -295,3 +295,5 @@ button.rx:hover{border-color:var(--accent)}
   .picker{left:0 !important;right:0;top:auto !important;bottom:0;width:auto;max-height:62dvh;border-radius:16px 16px 0 0}.pk-grid button{height:42px;font-size:24px}}
 /* reactions on their own line, buttons on the next */
 .acts .quick{flex:0 0 100%;margin:0 0 2px}
+.row.fresh{background:color-mix(in srgb,var(--accent) 7%,transparent)}
+.row.fresh .row-time::after{content:" · just in";color:var(--accent);font-weight:600}

diff --git a/experiments/E-002-look-and-feel/check.py b/experiments/E-002-look-and-feel/check.py
@@ -70,10 +70,11 @@ def run(browser, slug, size, vp, scale):
     click('[data-row="r-inc"] .row-main')
     click('[data-row="r-anna"] .row-main')
     pg.locator('[data-row="r-anna"] .reply input').fill("Yes to 3 pm. Legal cleared the terms page yesterday.")
-    pg.locator('[data-row="r-anna"] .reply button').click()
-    ok("reply from the row appears in the row", "Legal cleared" in pg.locator('[data-row="r-anna"] .row-exp').inner_text())
     shot("02-row-expanded")
-    click('[data-row="r-anna"] .row-main')
+    pg.locator('[data-row="r-anna"] .reply button').click()
+    ra = pg.locator('article[data-row="r-anna"]')
+    ok("sending a reply from the row closes the row and shows the reply on it", ra.locator(".row-exp").count() == 0 and "Legal cleared" in ra.locator(".row-preview").inner_text() and "replied" in ra.inner_text().lower() and "read" in ra.get_attribute("class").split(), ra.inner_text()[:160])
+    shot("02b-replied")
 
     # 4. an agent's flag asking for approval; react from the row releases it
     click('[data-row="r-rc"] .row-main')
@@ -128,6 +129,7 @@ def run(browser, slug, size, vp, scale):
     ok('"3 new" appears and nothing in the list moves', vis(".newpill").inner_text() == "3 new" and pg.locator(".row").count() == n and abs(top(".row") - y) < 0.5)
     shot("05-three-new")
     click(".newpill")
+    shot("05b-new-applied")
     ok("the new rows come in when asked", pg.locator('[data-row="r-sam"]').count() == 1 and pg.locator(".newpill").count() == 0)
 
     # 8. an empty bucket
